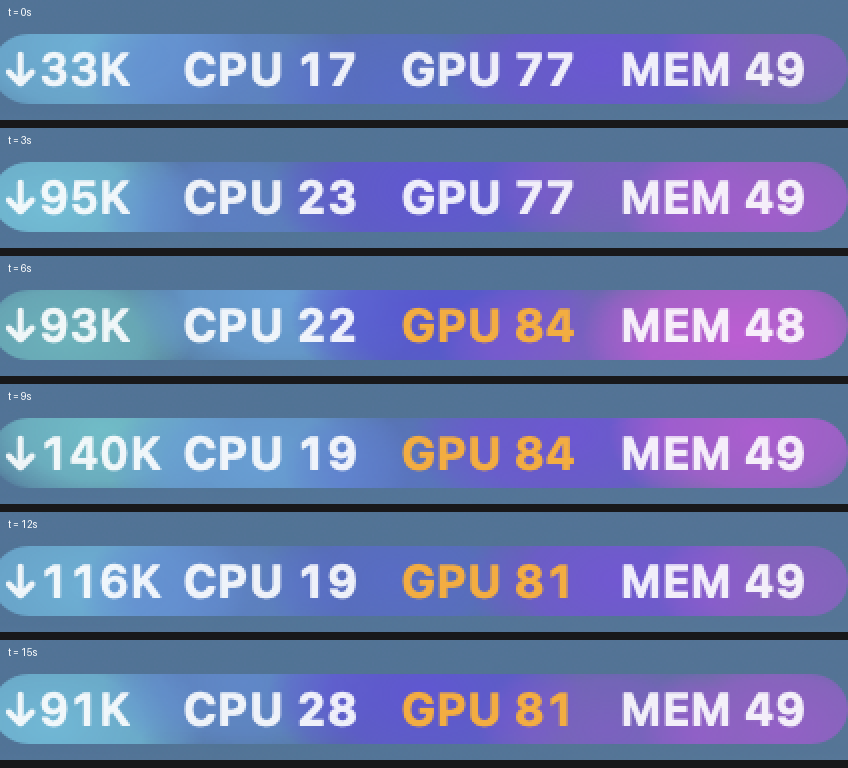
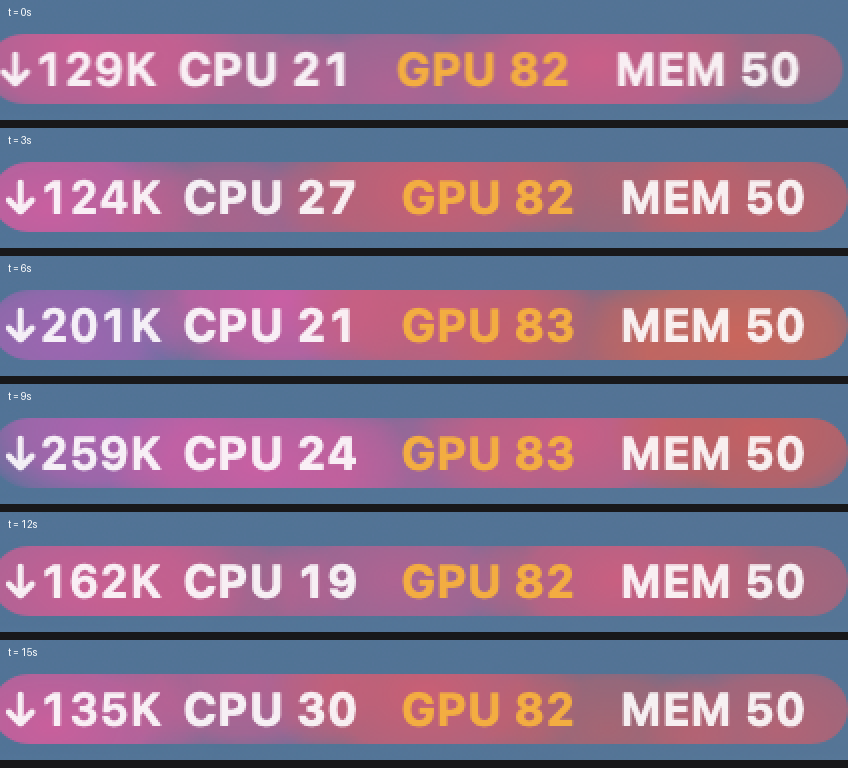
配色：换成不与流光撞色的樱花粉（320°→355°）
用户："还可以，给我选几种颜色搭配，别跟流光撞色了。"

真机实测流光占据色相 197°~275°（青→蓝→紫），而当时漫散射用的 187°→284°
几乎完全落在里面 —— 难怪撞色。安全区是 285°~360°（品红→玫瑰）+ 0°~185°。

⚠ 暖色有陷阱：菜单栏底色是 H213° 的蓝，低浓度区域会被底色拉走色相。
实测"暖霞 345→40°"的暗部漂到 296°（紫）、"蜜桃 10→55°"漂到 317°，
又跑回流光附近。绿色系最自洽（抹茶整条跨度只有 75°~138°），粉色次之（暗部 325°）。

顺带量出一个既有问题：把三种文字色在所有动效底色上的对比度都算了一遍 ——
橙字(≥80%)约 1.0~2.0:1、红字(≥92%)约 1.1~1.7:1，**流光自己也是 1.87/1.13**。
也就是说超过 92% 时数字基本看不见，与配色无关。想根治要给告警字加暗底/描边
或换深色告警色，都还没做，已记进 README。

选定樱花粉 320→355：三项文字指标全场第一（白 4.10 / 橙 2.00 / 红 1.20:1），
色相离流光最近的边界 45°（含 ±11° 漂移后仍有 34° 余量）。
绿色系虽然最自洽也不撞色，但白字只有 2.0:1 —— 绿色感知亮度高，这是物理。

四套实机对比图：Resources/配色-不撞流光四选-2026-10-01.png（含流光对照行）。
结构指标不变（峰值时刻 17/24、摆幅 0.342）。

diff --git a/Sources/SysPulse/MenuBarImage.swift b/Sources/SysPulse/MenuBarImage.swift
@@ -296,7 +296,7 @@ enum MenuBarImage {
         // 那张图是**亮底**，而菜单栏是深色底 + 白字，照搬会把文字涂掉，
         // 所以按用户决定保留暗底、只取它的色相走向。另外用户手上只有**静态截图**，
         // 所以参考只覆盖配色与色相分布，**动感从未被参考到**。
-        let hueStart: CGFloat = 0.52, hueEnd: CGFloat = 0.79
+        let hueStart: CGFloat = 0.889, hueEnd: CGFloat = 0.986
 
         // ⚠ **脉动 = 每个光点自己的周期 + 各自的固定相位，然后减均值、再限幅。**
         //

diff --git a/README.md b/README.md
@@ -867,12 +867,38 @@ cd ~/Documents/DeepSeek/SysPulse
     这是开了背景动效之后第一次达标。）
     想更浓就把 `saturation` 往上抬（实机量过：`0.75 / 0.80` → 彩度 105 / 对比度 6.08 : 1；
     `0.90 / 0.75` → 彩度 114 / 对比度 7.53 : 1）。
-  - ⚠ **配色（当前：青 → 天蓝 → 淡紫）**：色相坡 `0.52 → 0.79`
-    （= **187° 青 → 天蓝 → 284° 淡紫**），配合每个光点 `±0.03`（约 ±11°）的本色呼吸。
-    ⚠ **色相坡的起点决定"绿味"有多重**，这是调这套配色时唯一要动的旋钮：
-    `0.42` 起（151°）是明显的薄荷绿，`0.47` 起（169°）还剩一层海绿，
-    `0.52` 起（187°）绿基本退掉、只剩清透的青。用户 2026-09-30 的反馈依次是
-    "更喜欢绿色"→"我想要绿色少一点"，最后停在 `0.52`。
+  - ⚠⚠ **配色不能和流光的色域重叠**（2026-10-01 用户："别跟流光撞色了"）。
+    真机量过：**流光占据 197°~275°（青 → 蓝 → 紫）**。
+    而当时漫散射用的 `187° → 284°` **几乎完全落在里面** —— 两个效果看着是同一个色系，
+    切换就像在同一个颜色里换了个动法。现在漫散射取 **320° → 355°（樱花粉）**，
+    离流光最近的边界也有 **45°**。安全区就是 **285°~360°（品红→玫瑰）** 与
+    **0°~185°（红→橙→黄→绿）**。
+    ⚠ **但暖色（橙/琥珀）有个陷阱**：菜单栏底色是 **H213° 的蓝**，
+    低浓度区域会被底色拉走色相 —— 实测"暖霞 345→40°"的**暗部会漂到 296°（紫）**、
+    "蜜桃 10→55°"的暗部漂到 317°，**又跑回流光附近**。
+    绿色系最自洽（抹茶实测整条跨度只有 `75°~138°`），粉色次之（暗部 325°，仍在粉区）。
+  - ⚠⚠ **橙/红告警字在任何动效底色上都几乎看不见 —— 这是个既有问题，与配色无关。**
+    百分比 ≥80% 用 `.systemOrange`、≥92% 用 `.systemRed`。实测对比度：
+
+    | 配色 | 白字 `.labelColor` | 橙字 `.systemOrange` | 红字 `.systemRed` |
+    | --- | --- | --- | --- |
+    | 流光（青→蓝→紫） | 3.83 : 1 | **1.87 : 1** | **1.13 : 1** |
+    | **樱花粉（当前）** | **4.10 : 1** | **2.00 : 1** | **1.20 : 1** |
+    | 暖霞（玫→珊瑚→琥珀） | 3.82 : 1 | 1.86 : 1 | 1.12 : 1 |
+    | 抹茶（青柠→绿） | 2.01 : 1 | 1.02 : 1 | 1.69 : 1 |
+    | 薄荷绿 | 2.12 : 1 | 1.03 : 1 | 1.61 : 1 |
+
+    **红字 1.1~1.2 : 1 等于看不见**（WCAG 要 4.5 : 1）。
+    想根治得给告警字加一层暗色底/描边，或者把告警色换成深色 —— **都还没做**。
+    ⚠ 顺带说明：**绿色底对白字最不利**（同明度下绿色感知亮度最高，
+    WCAG 里绿的权重 `0.7152` 是红蓝之和的两倍多），实测抹茶/薄荷的白字只有 `2.0 : 1` 左右。
+    粉色反而最好（`4.10 : 1`），因为粉的绿通道低、整体感知亮度低。
+  - ⚠ **配色（当前：樱花粉 320° → 355°）**：色相坡 `0.889 → 0.986`
+    （= **320° 玫粉 → 355° 樱花粉**），配合每个光点 `±0.03`（约 ±11°）的本色呼吸，
+    所以实际跨度约 `309°~6°`，离流光最近的边界仍有 `34°`。
+    ⚠ **色相坡的两个端点就是调这套配色时要动的旋钮**（起点定"哪一端"、跨度定"变化幅度"）。
+    历史：`0.42→0.75`（薄荷绿，用户说绿多）→ `0.52→0.79`（青，但与流光撞色）→
+    现在 `0.889→0.986`（樱花粉，不撞色且文字对比度最好）。
     用户 2026-09-30 的反馈是"更喜欢清新一点的颜色，比如绿色、粉色、蓝色"，
     所以从最初的"淡紫 → 淡粉"换成了冷色系。选这套是**量出来的**，不是猜的：
 
@@ -886,6 +912,10 @@ cd ~/Documents/DeepSeek/SysPulse
     | **青 → 天蓝 → 淡紫（187→284°，当前）** | **4.2° / 21.1°** | H234° S37% V82% | **3.42 : 1** |
     | 天蓝 → 淡紫（202→292°） | 4.0° / 21.6° | H246° S37% V82% | 3.5 : 1 |
     | 天蓝 → 淡粉（216→335°） | 6.0° / 34.0° | H261° S35% V81% | 3.21 : 1 |
+    | **樱花粉（320→355°，当前）** | 3.4° / 24.1° | H333° S52% V75% | **4.10 : 1**（白字）|
+    | 暖霞（345→40°） | 3.7° / 31.5° | H13° S46% V75% | 3.82 : 1，但暗部漂到 296° ⚠ |
+    | 抹茶（75→120°） | 3.4° / 32.7° | H105° S50% V78% | 2.01 : 1 ⚠（绿的锅）|
+    | 薄荷绿（120→155°） | **2.7° / 17.3°** | H152° S57% V78% | 2.12 : 1 ⚠ |
     | 薄荷绿 → 天蓝 → 淡粉（150→330°） | **7.7° / 39.0°** ⚠ | H239° S25% V75% | 2.4 : 1 |
 
     两条结论：

diff --git a/DEVLOG-漫散射修复-2026-09-30.md b/DEVLOG-漫散射修复-2026-09-30.md
@@ -378,3 +378,54 @@ gradient.draw(fromCenter: .zero, radius: 0, toCenter: .zero, radius: 1, options:
 
 ⚠ 教训：调参时**至少扫两个维度**，并且先把"用户嘴里的形容词"翻译成**两个以上**可测的量
 （这次是"彩度"和"明度"），否则很容易把"鲜艳"优化成"发白"。
+
+---
+
+## 10. 追加：换到不撞流光的配色（2026-10-01）
+
+用户："还可以，给我选几种颜色搭配，别跟流光撞色了。"
+
+### 先量流光的色域
+
+真机实测流光：**色相 197°~275°（青→蓝→紫）**，饱和度 51%、明度 76%。
+而当时漫散射是 `187°→284°` —— **几乎完全落在里面**。难怪"撞色"。
+
+**安全区：285°~360°（品红→玫瑰）+ 0°~185°（红→橙→黄→绿）。**
+
+### 但暖色有个陷阱
+
+菜单栏底色是 **H213° 的蓝**，低浓度区域会被底色拉走色相。实测各候选的**最暗处**色相：
+
+| 候选 | 色相坡 | 最暗处色相 | 整条跨度 | 结论 |
+| --- | --- | --- | --- | --- |
+| 樱花粉 | 320→355° | 325° | 稳在粉区 | ✅ |
+| 暖霞 | 345→40° | **296°** | 漂到紫 | ⚠ 又靠近流光 |
+| 蜜桃 | 10→55° | **317°** | 漂到品红 | ⚠ |
+| 抹茶 | 75→120° | 111° | **75~138°** | ✅ 最自洽 |
+| 薄荷绿 | 125→165° | 154° | 128~179° | ✅（179 离流光 18°）|
+
+**暖色（橙/琥珀）的暗部会被蓝底拉成紫/品红，等于又撞回流光的色域。**
+
+### 顺带量出一个更值得注意的既有问题
+
+把三种文字色在所有动效底色上的对比度都算了一遍：
+
+| 配色 | 白字 `.labelColor` | 橙字 `.systemOrange`(≥80%) | 红字 `.systemRed`(≥92%) |
+| --- | --- | --- | --- |
+| 流光 | 3.83 : 1 | **1.87 : 1** | **1.13 : 1** |
+| **樱花粉（选定）** | **4.10 : 1** | **2.00 : 1** | **1.20 : 1** |
+| 暖霞 | 3.82 : 1 | 1.86 : 1 | 1.12 : 1 |
+| 抹茶 | 2.01 : 1 | 1.02 : 1 | 1.69 : 1 |
+| 薄荷绿 | 2.12 : 1 | 1.03 : 1 | 1.61 : 1 |
+
+⚠⚠ **红字 1.1~1.2 : 1 等于看不见**（WCAG 要 4.5 : 1），
+而且**流光自己也是这样** —— 这是**既有问题，与选哪套配色无关**。
+想根治要给告警字加暗色底/描边，或者把告警色换成深色。**都还没做，已记进 README。**
+
+### 选定
+
+**樱花粉 `320°→355°`**：三项文字指标全场第一（白 4.10 / 橙 2.00 / 红 1.20），
+色相离流光最近的边界 45°，实际跨度 309°~6° 也仍有 34° 余量。
+（绿色系虽然"最自洽"、也不撞色，但白字只有 2.0 : 1 —— 绿色感知亮度高，这是物理。）
+
+四套的实机对比图留在 `Resources/配色-不撞流光四选-2026-10-01.png`（含流光对照行）。
